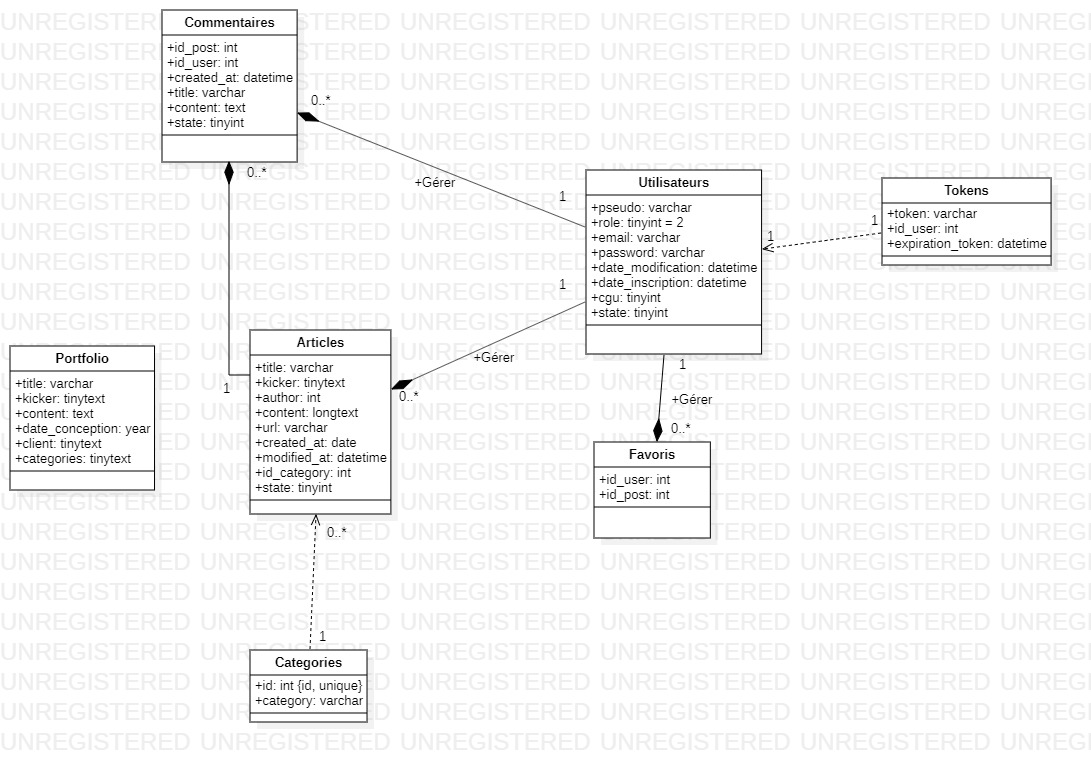
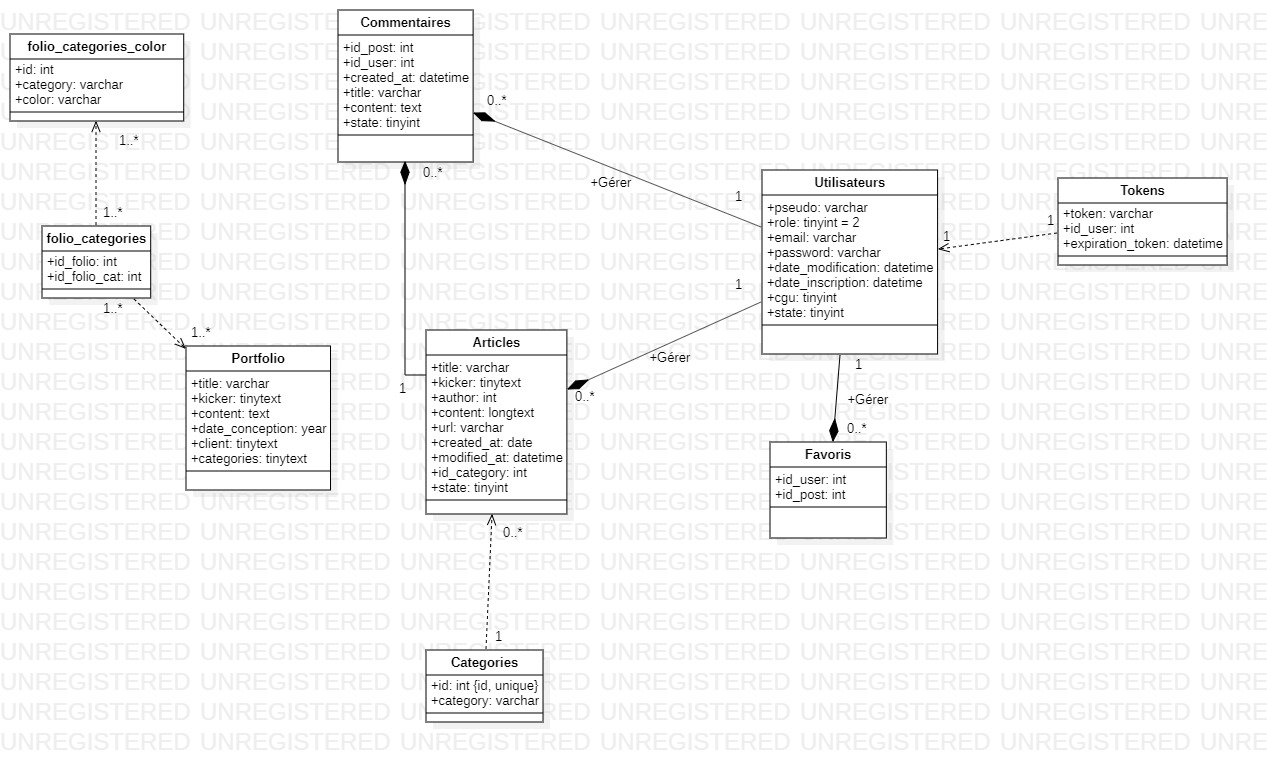
[MODIFY] categories colomn in portfolio delete => new tables (folio_categories & folio_categories_color), categories fill in portfolio

diff --git a/ressources/css/styleSheet.css b/ressources/css/styleSheet.css
@@ -50,19 +50,26 @@ h6.dashboard {
     background-color: #00c0c7;
 }
 
-#categories button.btn.btn-outline-info {
+.categories button.btn.btn-outline-info {
     color: #00c0c7;
     border: 1px solid #00c0c7;
     margin: 5px 0;
 }
 
-#categories button.btn.btn-outline-info:hover {
+.categories button.btn.btn-outline-info:hover {
     background-color: #00c0c7;
     color: #ffffff;
 }
 
-#categories {
+.categories {
     margin-bottom: 2%;
+    display: flex;
+    flex-flow: row nowrap;
+    justify-content: start;
+}
+
+p.variableAPasser, p#variableAPasser1, p#variableAPasser2, p#variableAPasser3, p#variableAPasser4, p#variableAPasser5, p#variableAPasser6, p#variableAPasser7, p#variableAPasser8 {
+    margin-left: 0.2rem;
 }
 
 .helpmessage {
@@ -150,8 +157,40 @@ form .btn-sm {
     text-align: left;
 }
 
+.fas.fa-circle.portfolio {
+    margin: 0.3rem 0.2rem 0 0.4rem;
+}
+
 .fas.fa-check-square {
     color: green !important;
+}
+
+.phpCategory {
+    color: #4f5d95;
+}
+
+.jsCategory {
+    color: #f1e05a;
+}
+
+.cssCategory {
+    color: #563d7c;
+}
+
+.htmlCategory {
+    color: #e34c26;
+}
+
+.bootstrapCategory {
+    color: #7952b3;
+}
+
+.wordPressCategory {
+    color: #003c56;
+}
+
+.umlCategory {
+    color: red;
 }
 
 #articles .articles-item {

diff --git a/model/FolioCategoriesColor.php b/model/FolioCategoriesColor.php
@@ -1,0 +1,78 @@
+<?php
+
+
+class FolioCategoriesColor extends Portfolio
+{
+    private $id;
+    private $category;
+    private $color;
+    private $id_folio;
+    private $id_folio_cat;
+
+    public function __construct($donnees = null)
+    {
+        if (!empty($donnees)) :
+            $this->hydrate($donnees);
+        endif;
+    }
+
+    public function hydrate($donnees)
+    {
+        foreach ($donnees as $cle => $valeur) {
+            $method = 'set' . ucfirst($cle);
+            if (method_exists($this, $method)) :
+                $this->$method($valeur);
+            endif;
+        }
+    }
+
+    public function getId()
+    {
+        return $this->id;
+    }
+
+    public function setId($id)
+    {
+        $this->id = $id;
+    }
+
+    public function getCategory()
+    {
+        return $this->category;
+    }
+
+    public function setCategory($category)
+    {
+        $this->category = $category;
+    }
+
+    public function getColor()
+    {
+        return $this->color;
+    }
+
+    public function setColor($color)
+    {
+        $this->color = $color;
+    }
+
+    public function getId_folio()
+    {
+        return $this->id_folio;
+    }
+
+    public function setId_folio($id_folio)
+    {
+        $this->id_folio = $id_folio;
+    }
+
+    public function getId_folio_cat()
+    {
+        return $this->id_folio_cat;
+    }
+
+    public function setId_folio_cat($id_folio_cat)
+    {
+        $this->id_folio_cat = $id_folio_cat;
+    }
+}

diff --git a/view/indexView.php b/view/indexView.php
@@ -298,8 +298,16 @@
                                 <ul class="list-inline">
                                     <li>Date de conception: <?= $folio->getDate_conception() ?></li>
                                     <li>Client: <?= $folio->getClient() ?></li>
-                                    <li>Categorie(s): <i
-                                                class="fas fa-check-square"></i> <?= $folio->getCategoriesFormatted() ?>
+                                    <li class="categories"><p>Categorie(s): </p>
+                                            <?php foreach ($folio->getCategories() as $categories) {
+                                                ?>
+                                                <i class="fas fa-circle portfolio" style="color: <?= $categories->getColor() ?>"></i>
+                                                <?=
+                                                $categories->getCategory()
+                                                ?>
+                                                <?php
+                                            } ?>
+                                        </p>
                                     </li>
                                 </ul>
                                 <button class="btn btn-primary" data-dismiss="modal" type="button">

diff --git a/model/FolioCategoriesManager.php b/model/FolioCategoriesManager.php
@@ -1,0 +1,23 @@
+<?php
+
+class FolioCategoriesManager extends Connexion
+{
+    //récupérer les catégories du portfolio
+    public function getCategoriesFolio($idFolio)
+    {
+        $bdd = $this->dbConnect();
+        $statement = $bdd->prepare('SELECT category, color 
+                                                FROM folio_categories_color 
+                                                    LEFT JOIN folio_categories ON folio_categories_color.id = folio_categories.id_folio_cat 
+                                                    LEFT JOIN portfolio ON folio_categories.id_folio = portfolio.id 
+                                                WHERE portfolio.id = :idFolio
+                                                ORDER BY folio_categories.id_folio_cat ASC');
+        $statement->execute(array('idFolio' => $idFolio));
+        return $statement->fetchAll(PDO::FETCH_CLASS, 'FolioCategoriesColor');
+    }
+
+    public function fillCategoryInPortfolio(Portfolio $portfolio)
+    {
+        $portfolio->setCategories($this->getCategoriesFolio($portfolio->getId()));
+    }
+}

diff --git a/controller/ControllerFront.php b/controller/ControllerFront.php
@@ -10,6 +10,11 @@ class ControllerFront
     {
         $portfolioManager = new PortfolioManager();
         $portfolio = $portfolioManager->getPortfolio();
+        $portfolioCategoriesManager = new FolioCategoriesManager();
+
+        foreach ($portfolio as $folio) :
+            $portfolioCategoriesManager->fillCategoryInPortfolio($folio);
+        endforeach;
 
         $view = new View('Riwalenn Bas - développeuse d\'applications PHP/Symfony');
         $view->render('view/indexView.php', ['portfolio' => $portfolio]);

diff --git a/model/UserManager.php b/model/UserManager.php
@@ -68,7 +68,6 @@ class UserManager extends Connexion
         $statement = $bdd->prepare('SELECT `token`, `email` FROM `tokens` 
                                                 JOIN `users` ON `id_user` = `id` WHERE `email` LIKE :email');
         $statement->execute(array('email' => htmlspecialchars($user->getEmail())));
-
         return $statement->fetchAll(PDO::FETCH_CLASS, 'User');
     }
 

diff --git a/model/Portfolio.php b/model/Portfolio.php
@@ -102,7 +102,7 @@ class Portfolio
     {
         $categories = $this->getCategories();
         $categoriesexploded = explode('/', $categories);
-        $categoriesFormatted = implode(' - <i class="fas fa-check-square"></i> ', $categoriesexploded);
+        $categoriesFormatted = implode(' - ', $categoriesexploded);
         return $categoriesFormatted;
     }
 }

diff --git a/view/template.php b/view/template.php
@@ -46,7 +46,9 @@
 
 <!-- Custom scripts for this template -->
 <script src="ressources/js/agency.min.js"></script>
+<script src="ressources/js/categoriesCircleStyle.js"></script>
 <script src="ressources/js/verifForm.js"></script>
+<script src="ressources/js/deleteUser.js"></script>
 <script src="ressources/js/summernote.js"></script>
 
 </body>

diff --git a/model/PortfolioManager.php b/model/PortfolioManager.php
@@ -7,7 +7,7 @@ class PortfolioManager extends Connexion
     {
         $bdd = $this->dbConnect();
         $statement = $bdd->prepare('SELECT * FROM `portfolio` ORDER BY id DESC');
-        $statement->execute();
+        $statement->execute(array());
         return $statement->fetchAll(PDO::FETCH_CLASS, 'Portfolio');
     }
 
